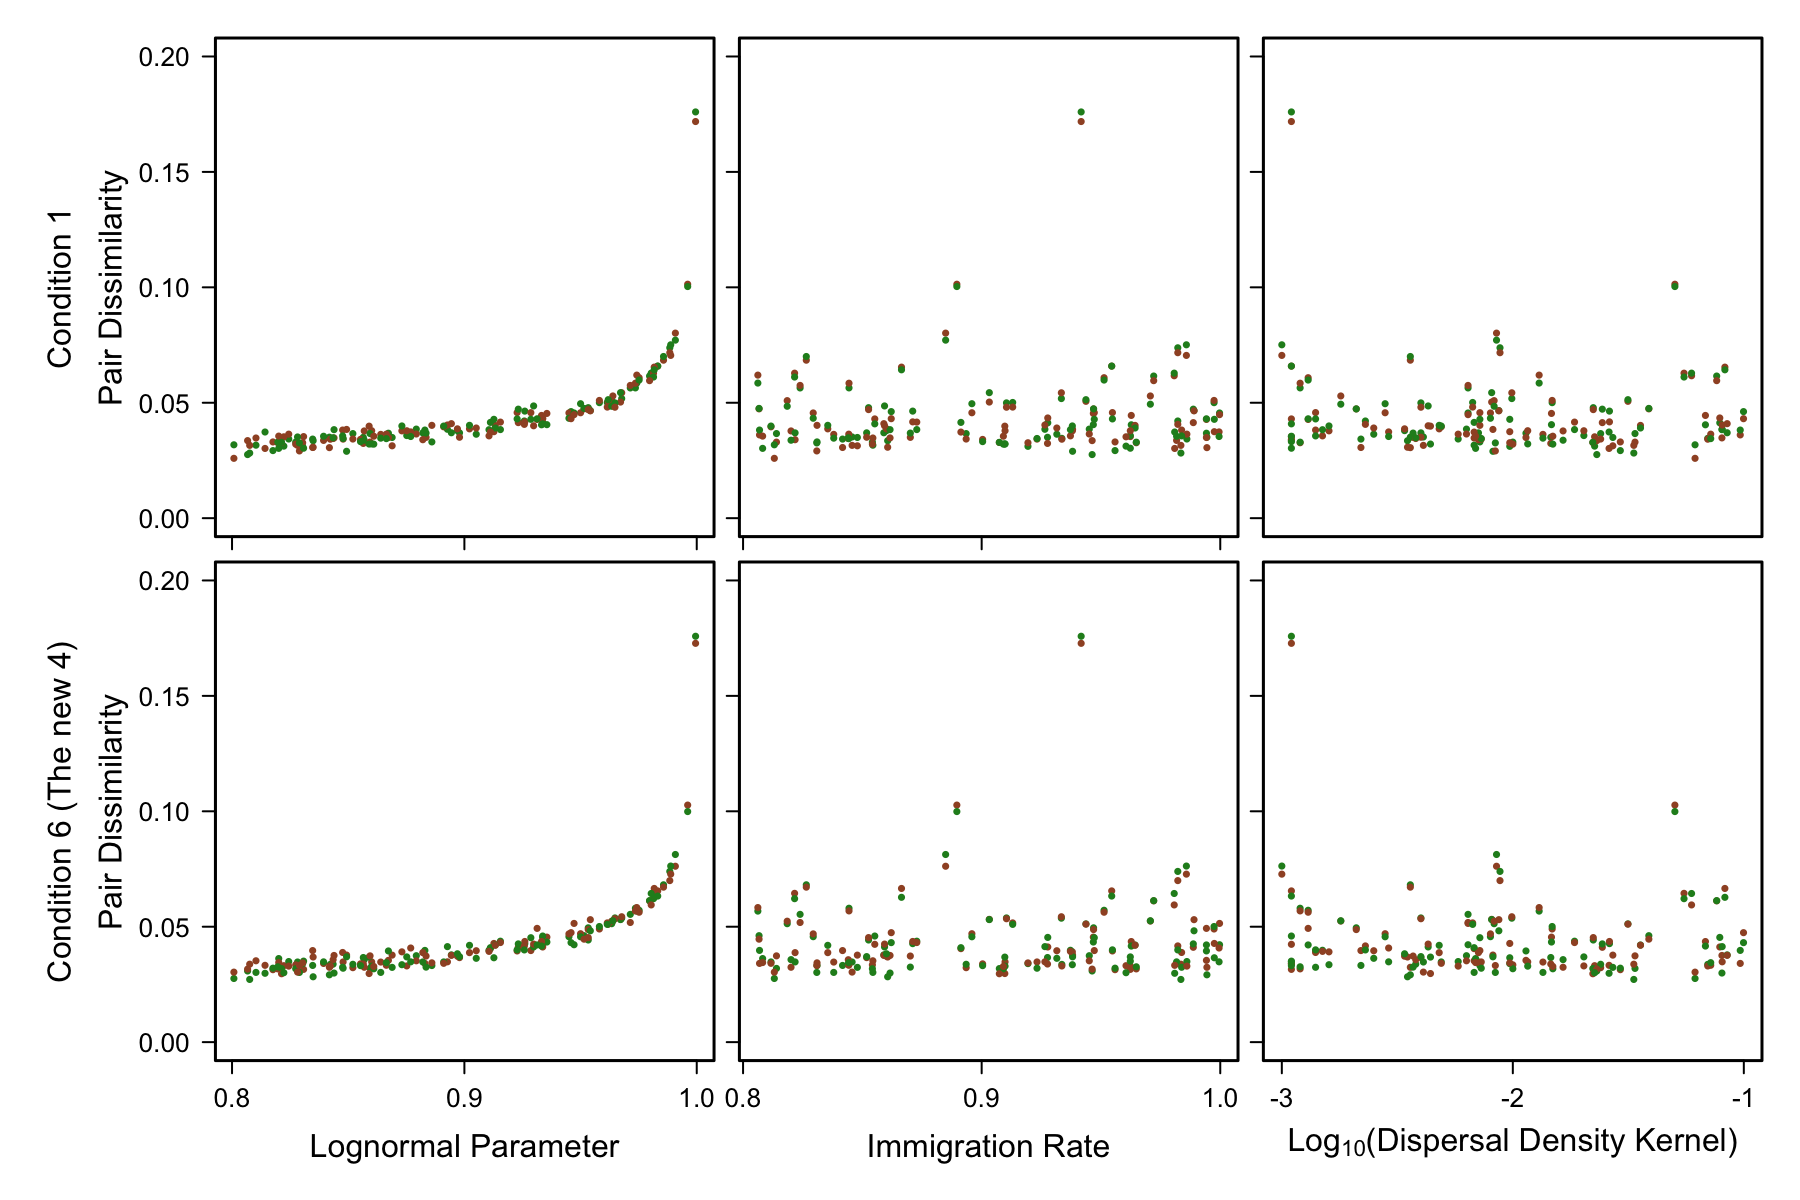
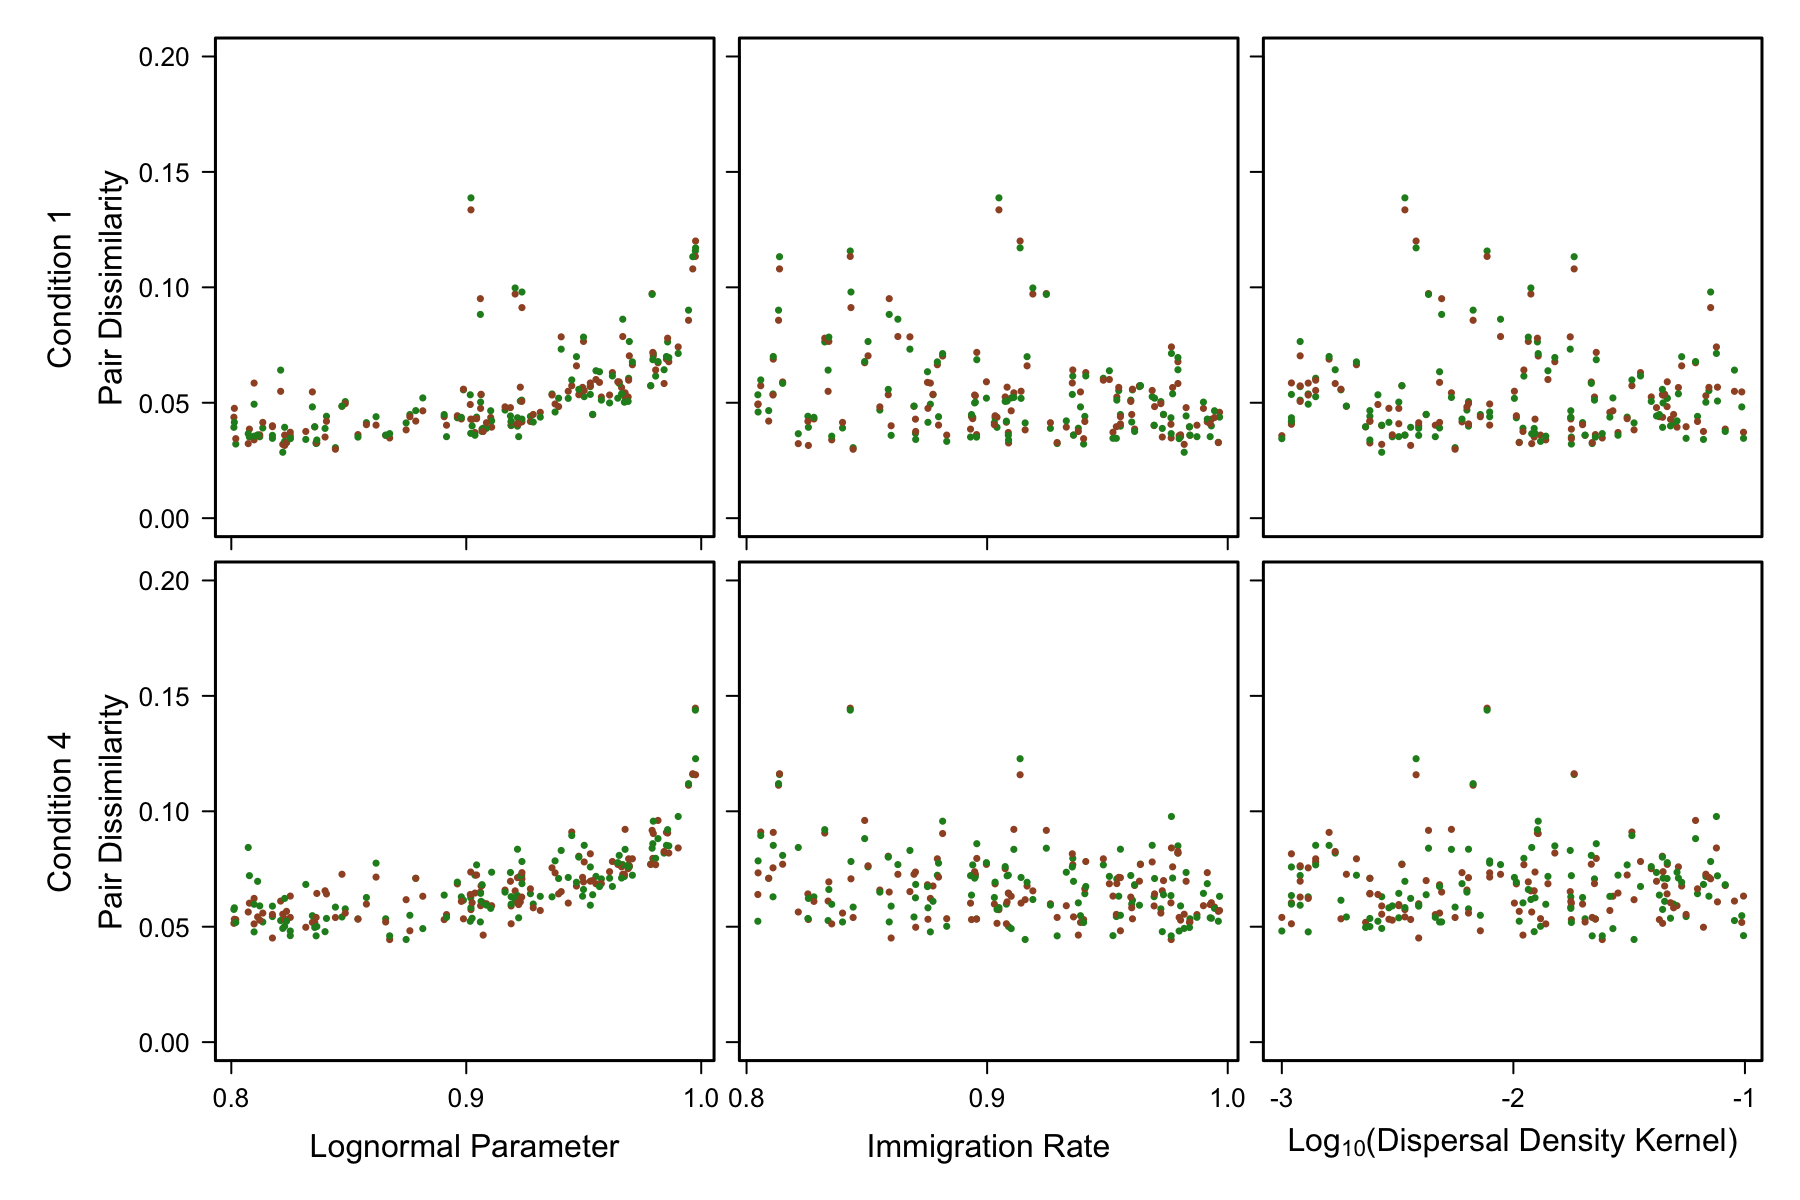
cleaning up, returning ECmodel.py to be set for our manuscript figures and not the supp

diff --git a/microbide/models/ECmodel.py b/microbide/models/ECmodel.py
@@ -41,68 +41,65 @@ conditions = [['same', 'rand', 'rand'],
 
 ####################  GENERATE SITE BY SPECIES DATA  ###########################
 
-for j in range(10):
-    num_patches = 20 # number of patches on each side of Evolution Canyon (EC)
-    N = 2 * 10**6 # Starting total abundance across the landscape
-    T = 10**7 # Time parameter
+num_patches = 20 # number of patches on each side of Evolution Canyon (EC)
+N = 2 * 10**6 # Starting total abundance across the landscape
+T = 10**7 # Time parameter
 
-    lgp = np.random.uniform(0.8, 1.0) # log-series parameter; underlying structure of regional pool
-    im = np.random.uniform(0.8, 1.0) # immigration rate
-    dkern = 10**np.random.uniform(-3, -1) # dispersal kernel
+#lgp = np.random.uniform(0.8, 1.0) # log-series parameter; underlying structure of regional pool (0.92)
+#im = np.random.uniform(0.8, 1.0) # immigration rate (0.999999)
+#dkern = 10**np.random.uniform(-3, -1) # dispersal kernel (-2)
 
-    for ic, combo in enumerate(conditions):
-        envDiff, enterD, exitD = combo
+lgp = 0.92
+im = 0.999999
+kdern = -2
 
-        landscapeLists = land.get_landscape(combo) # characterizing the landscape
+for ic, combo in enumerate(conditions):
+    envDiff, enterD, exitD = combo
 
-        NRowXs, NRow1Ys, NRow2Ys, SRowXs, SRow1Ys = landscapeLists[0]
-        SRow2Ys, Ncounts, Nverts, Scounts, Sverts = landscapeLists[1]
+    landscapeLists = land.get_landscape(combo) # characterizing the landscape
 
-        COM = model.microbide(combo, Ncounts, Nverts, Scounts, Sverts, N, T, ic, lgp, im, dkern)
-                                # run the model & return the communities
+    NRowXs, NRow1Ys, NRow2Ys, SRowXs, SRow1Ys = landscapeLists[0]
+    SRow2Ys, Ncounts, Nverts, Scounts, Sverts = landscapeLists[1]
 
-        nCOM, sCOM = funx.SpeciesInPatches(COM, NRowXs, NRow1Ys, NRow2Ys,
-                                                SRowXs, SRow1Ys, SRow2Ys)
+    COM = model.microbide(combo, Ncounts, Nverts, Scounts, Sverts, N, T, ic, lgp, im, dkern)
+                            # run the model & return the communities
 
-        SbyS = funx.get_SitebySpecies([nCOM, sCOM]) # get site by species matrix
-        S = len(SbyS[0]) - 3 # first 3 columns are non-species data
+    nCOM, sCOM = funx.SpeciesInPatches(COM, NRowXs, NRow1Ys, NRow2Ys,
+                                            SRowXs, SRow1Ys, SRow2Ys)
 
-        r1 = len(SbyS[0])
-        for i, row in enumerate(SbyS): # checking to ensure correct format for SbyS
-            r2 = len(row)
+    SbyS = funx.get_SitebySpecies([nCOM, sCOM]) # get site by species matrix
+    S = len(SbyS[0]) - 3 # first 3 columns are non-species data
 
-            if i%2 > 0 and sum(row[2:]) == 0: # first 3 columns are non-species data
-                print 'there are no individuals in row', i
+    r1 = len(SbyS[0])
+    for i, row in enumerate(SbyS): # checking to ensure correct format for SbyS
+        r2 = len(row)
 
-            if r1 != r2:
-                print 'unequal sized rows in Site by Species matrix'
-                sys.exit()
-            r1 = r2
+        if i%2 > 0 and sum(row[2:]) == 0: # first 3 columns are non-species data
+            print 'there are no individuals in row', i
+
+        if r1 != r2:
+            print 'unequal sized rows in Site by Species matrix'
+            sys.exit()
+        r1 = r2
 
 
-        mypath = os.path.dirname(os.path.realpath(__file__))
-        path = os.path.join(os.path.split(mypath)[0], 'SbyS/Tests')
-        print('Output Path = '+str(path))
+    mypath = os.path.dirname(os.path.realpath(__file__))
+    path = os.path.join(os.path.split(mypath)[0], 'SbyS')
 
-        directory = '/lgp='+str(round(lgp,4))+'_im='+str(round(im, 4))+'_dispkernel='+str(round(dkern, 4))
+    fileName = os.path.join(path+, 'Condition'+str(ic+1))
+    OUT = open(fileName + '.txt','w')
+    writer = csv.writer(OUT, delimiter='\t')
 
-        if not os.path.exists(path+directory):
-            os.makedirs(path+directory)
+    linedata = ['label', 'Group', 'numOtus']
+    for s in range(S):
+        linedata.append('Otu'+str(s))
 
-        fileName = os.path.join(path+directory, 'Condition'+str(ic+1))
-        OUT = open(fileName + '.txt','w')
-        writer = csv.writer(OUT, delimiter='\t')
+    writer.writerow(linedata)
 
-        linedata = ['label', 'Group', 'numOtus']
-        for s in range(S):
-            linedata.append('Otu'+str(s))
+    for row in SbyS:
+        if len(row) != r1:
+            print 'row length has been corrupted'
+            sys.exit()
+        writer.writerow(row)
 
-        writer.writerow(linedata)
-
-        for row in SbyS:
-            if len(row) != r1:
-                print 'row length has been corrupted'
-                sys.exit()
-            writer.writerow(row)
-
-        OUT.close()
+    OUT.close()

diff --git a/microbide/models/ECMicrobideCore.py b/microbide/models/ECMicrobideCore.py
@@ -8,7 +8,7 @@ import ECfunctions as funx
 
 def immigration(envDiff, COM, oDict1, oDict2, dDict, im, lgp):
 
-    propagules = np.random.logseries(lgp, im) # list of propagules (was 0.99, 0.92 MEM)
+    propagules = np.random.logseries(lgp, im) # list of propagules
     for p in propagules:
         if p not in oDict1:
 
